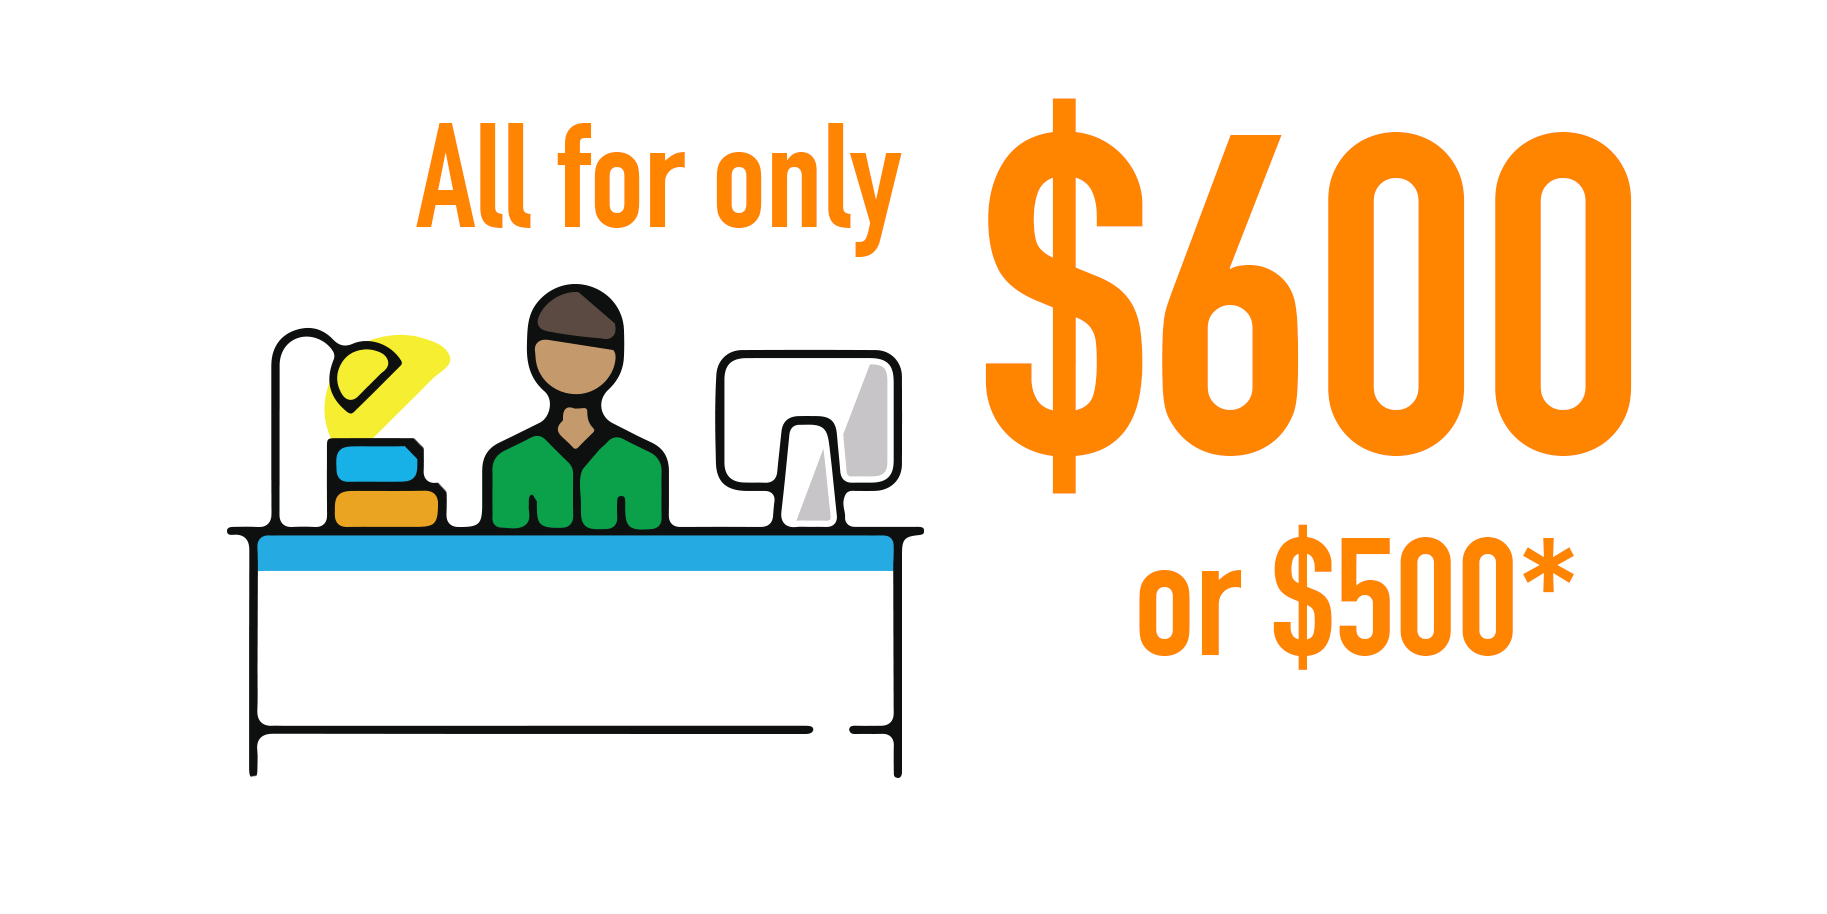
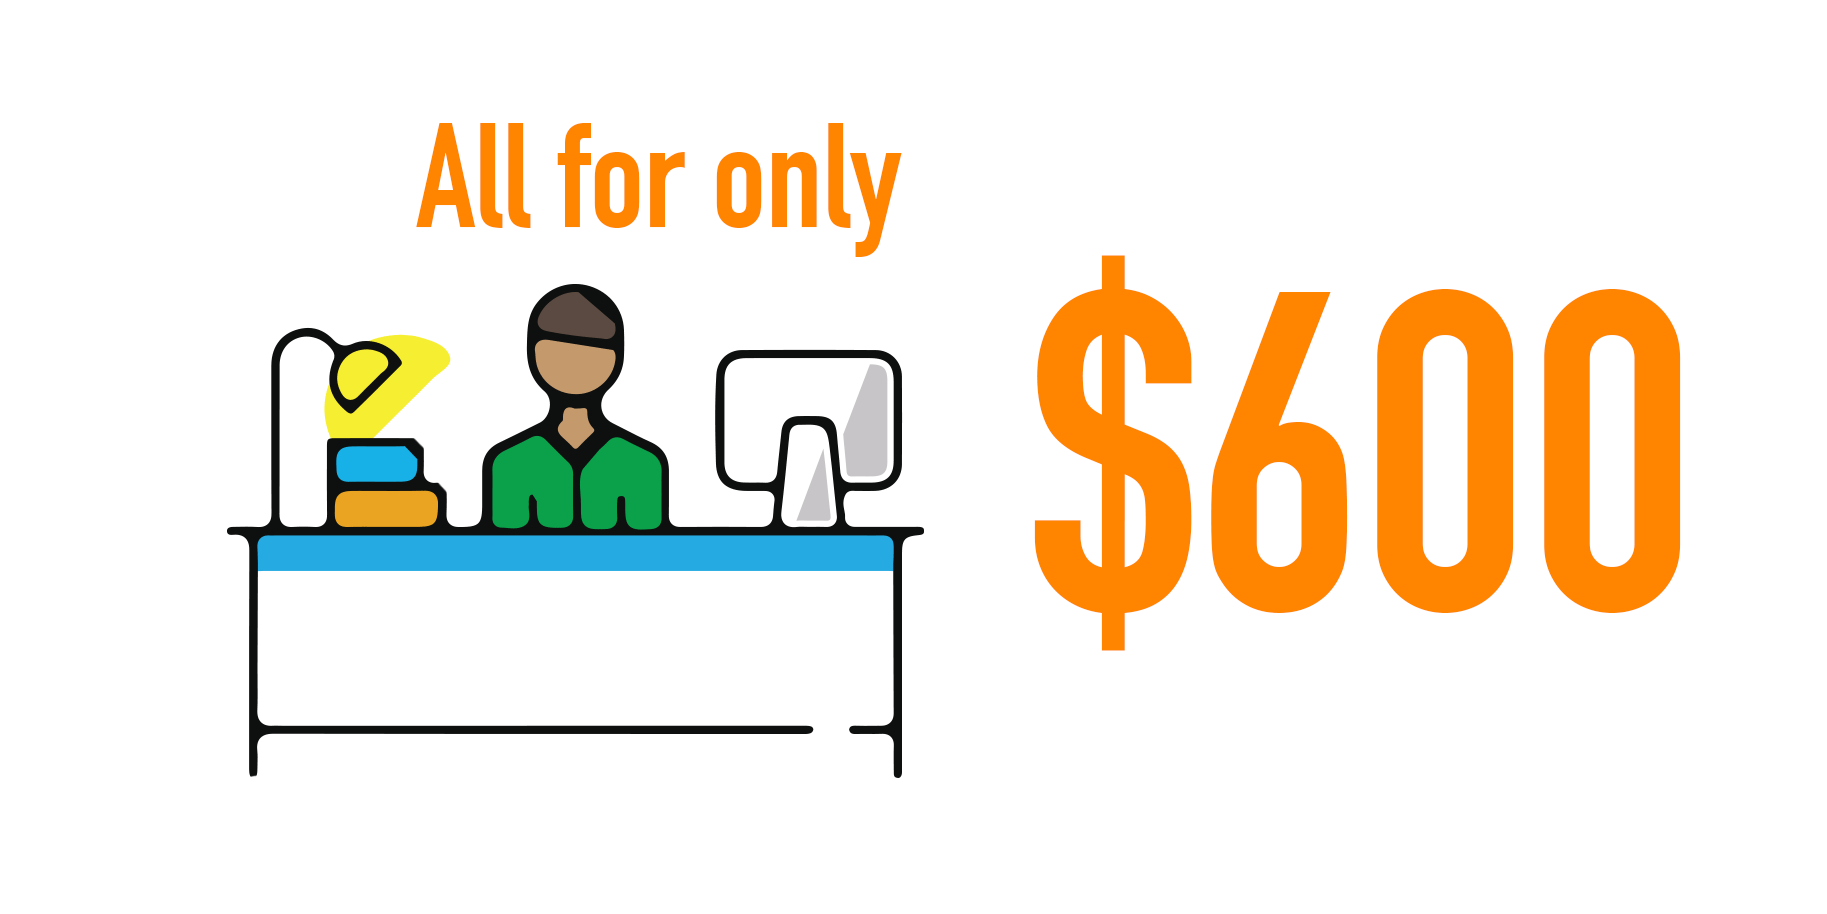
fin

Changed region(s): [[0.5304, 0.0919, 0.936, 0.7352]]

diff --git a/themes/fre/layouts/partials/hero.html b/themes/fre/layouts/partials/hero.html
@@ -1,6 +1,3 @@
-
-
-  
 <div class="hero-body first-hero">
   <div class="container">
     <div class="columns is-vcentered">
@@ -29,7 +26,7 @@
   </div>
 </div>
 </section>
-    
+
 <section class="section section-feature-grey is-small">
   <div class="container">
     <div class="title-wrapper has-text-centered">
@@ -41,19 +38,19 @@
     <div class="content-wrapper">
       <div class="columns">
 
-          {{ $items := (where $.Site.RegularPages.ByWeight "Type" "branch") }}
-          {{ $len := (len $items) }}
-          {{ range $i, $e := $items }}
+        {{ $items := (where $.Site.RegularPages.ByWeight "Type" "branch") }}
+        {{ $len := (len $items) }}
+        {{ range $i, $e := $items }}
         <div class="column is-one-third">
           <div class="feature-card is-bordered has-text-centered revealOnScroll delay-1" data-animation="fadeInLeft">
             <div class="card-title">
               <h4>{{ $e.Params.title }}</h4>
             </div>
             <div class="card-icon">
-                <img src="{{ $e.Params.img }}">
+              <img src="{{ $e.Params.img }}">
             </div>
             <div class="card-text">
-                {{ $e.Params.description }}
+              {{ $e.Params.description }}
             </div>
             <div class="card-action">
               <a href="{{ $e.Permalink }}" class="button btn-align-md accent-btn raised">{{ $e.Params.button }}</a>
@@ -91,7 +88,7 @@
   </div>
 </section>
 
-    
+
 <section class="section is-medium section-secondary">
   <div class="container">
     {{ $comm := .Site.GetPage "/Comments" }}
@@ -100,29 +97,9 @@
       <h3 class="subtitle is-5 light-text">{{ $comm.Params.summary }}</h3>
     </div>
 
-      {{/* {{ with .Site.GetPage "section" "comments" }}{{ .Title }}{{ end }} */}}
+    {{/* {{ with .Site.GetPage "section" "comments" }}{{ .Title }}{{ end }} */}}
 
-    <div class="content-wrapper">
-      <div class="columns is-vcentered">
 
-        {{ $items := (where $.Site.RegularPages "Type" "comments") }}
-        {{ $len := (len $items) }}
-        {{ range $i, $e := $items }}
-        <div class="column is-4">
-          <figure class="testimonial">
-            <blockquote>
-              {{ $e.Content  }}
-            </blockquote>
-            <div class="author">
-              <img src="{{ $e.Params.img }}" alt=""/>
-              <h5>{{ $e.Params.name }}</h5>
-            </div>
-          </figure>
-        </div>
-        {{ end }}
-
-      </div>
-    </div>
   </div>
 </section>
 
@@ -162,13 +139,14 @@
   </div>
 </section>
 
-    
+
 <section id="home-form" class="section section-light-grey is-medium">
   <div class="container">
     <div class="title-wrapper has-text-centered">
       <h2 class="title is-2 is-spaced">{{ .Params.formHeader  }}</h2>
       <h3 class="subtitle is-5 is-muted">{{ .Params.formSubheading }}</h3>
       <div class="divider is-centered"></div>
+      <br />
       <p>Please email info@hugomint for further information</p>
     </div>
 
@@ -199,5 +177,3 @@
       </div>
     </div> */}}
   </div>
-
-

diff --git a/themes/fre/layouts/_default/single.html b/themes/fre/layouts/_default/single.html
@@ -10,14 +10,13 @@
     <div class="columns is-centered has-text-left">
       <div class="column is-8">
         <div class="content">
-          
-        {{ if .Description }}
-        <p class="subtitle">{{ .Description }}</p>
-        {{ end }}
-        {{ .Content }}
-        {{ .Render "tags" }}
-        --
-        {{ partial "social.html" . }}
+
+          {{ if .Description }}
+          <p class="subtitle">{{ .Description }}</p>
+          {{ end }}
+          {{ .Content }}
+          {{ .Render "tags" }}
+
         </div>
       </div>
     </div>

diff --git a/themes/fre/layouts/comments/list.html b/themes/fre/layouts/comments/list.html
@@ -1,0 +1,14 @@
+{{/* {{here we define main in a list}} */}}
+{{ define "main" }}
+
+{{ $paginator := .Paginate (where .Data.Pages.ByDate.Reverse "Type" "comments") }}
+
+<section class="section single-page">
+
+  {{ range $paginator.Pages }}
+  {{ .Render "commentBreif" }}
+  {{ end }}
+
+</section>
+
+{{ end }}

diff --git a/themes/fre/layouts/_default/breif.html b/themes/fre/layouts/_default/breif.html
@@ -7,7 +7,7 @@
           <div class="media-content">
             <h1 class="card__header__title">
               <a href="{{ .Permalink }}" class="card__header__link" alt="{{ .Title }}.">
-              {{ .Title }}
+                {{ .Title }}
               </a>
             </h1>
 

diff --git a/content/internal/deploy.md b/content/internal/deploy.md
@@ -6,10 +6,11 @@ url: web-deploy
 layout: internal
 slug: "/"
 image: "/images/illustrations/worker.svg"
-summary: Your new site will be highly available, secure and updatable without maintenance
+summary:
+  Your new site will be highly available, secure and updatable without maintenance
   and have no ongoing fees.
-
 ---
+
 #### Custom design or choose from one of our themes
 
 We have a selection of tested themes that cover a broad range of buisness's.
@@ -20,7 +21,7 @@ The content of your site is managed through an easy to use admin interface with 
 
 #### Secure with free HTTPS certificate
 
-Your site serves only static files over a secure free HTTPS connection usually value at over $100 per annum.
+Your site serves only static files over a secure free HTTPS connection usually value at over \$100 per annum.
 
 #### High availability and redundancy
 

diff --git a/content/_index.md b/content/_index.md
@@ -1,14 +1,13 @@
 ---
 title: Home
 description: Affordable pricing
-extendedDescription: This includes design, development, deployment and instructions.
+extendedDescription:
+  This includes design, development, deployment and instructions.
   You will receive a one-on-one service for a full day or equivalent with no ongoing
   costs or complex maintenance.
-serverFees: No monthly server fees
-serverText: "*priced at $500 if you agree to have a small link back to www.hugomint.com,
-  terms and conditions apply."
+serverFees: In most cases no monthly server fees
+serverText: "*ongoing pricing is dependant on server provider"
 formHeader: Send us a message
 formSubheading: We'd love to hear from you
 weight: "1"
-
 ---

diff --git a/content/posts/seo.md b/content/posts/seo.md
@@ -1,13 +1,13 @@
 ---
 title: Optimise Your Site
-draft: true
+draft: false
 description: Basic optimisation principals
 date: 2019-10-21T21:21:00+00:00
 publishDate: 2019-10-21T21:21:42+00:00
 author: Dave
 images: []
 tags:
-  - SEO
+  - Speed
 ---
 
 SEO and optimisation to get your site noticed. A fast loading site is easier to read not only by humans but also by google bot's.

diff --git a/content/posts/google-analytics.md b/content/posts/google-analytics.md
@@ -1,7 +1,7 @@
 ---
 title: Google Analytics
 description: ""
-draft: true
+draft: false
 date: 2019-10-28T21:34:04.000+00:00
 publishDate: 2019-10-28T21:34:00.000+00:00
 author: Dave

diff --git a/content/comments/bruce.md b/content/comments/bruce.md
@@ -1,5 +1,5 @@
 ---
-draft: true
+draft: false
 weight: 2
 name: "Bruce Singer"
 img: "/images/illustrations/faces/2.png"

diff --git a/content/comments/irma.md b/content/comments/irma.md
@@ -1,5 +1,5 @@
 ---
-draft: true
+draft: false
 weight: 1
 name: "Irma Walters"
 img: "/images/illustrations/faces/1.png"

diff --git a/content/comments/anna.md b/content/comments/anna.md
@@ -1,5 +1,5 @@
 ---
-draft: true
+draft: false
 weight: 3
 name: "Anna Brand"
 img: "/images/illustrations/faces/3.png"
